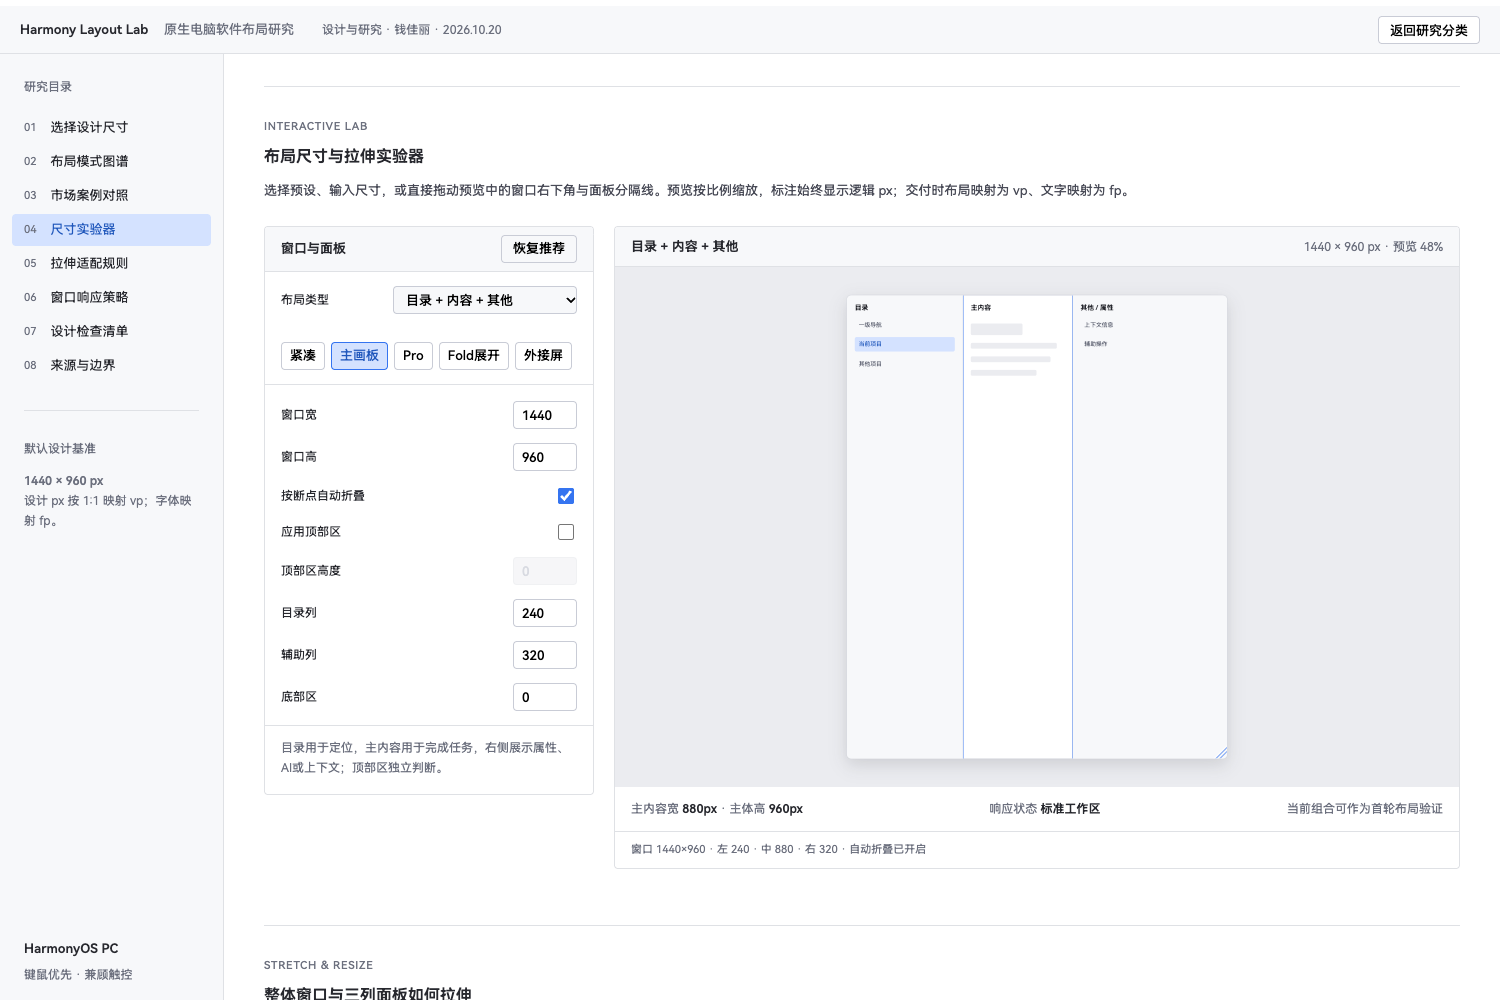
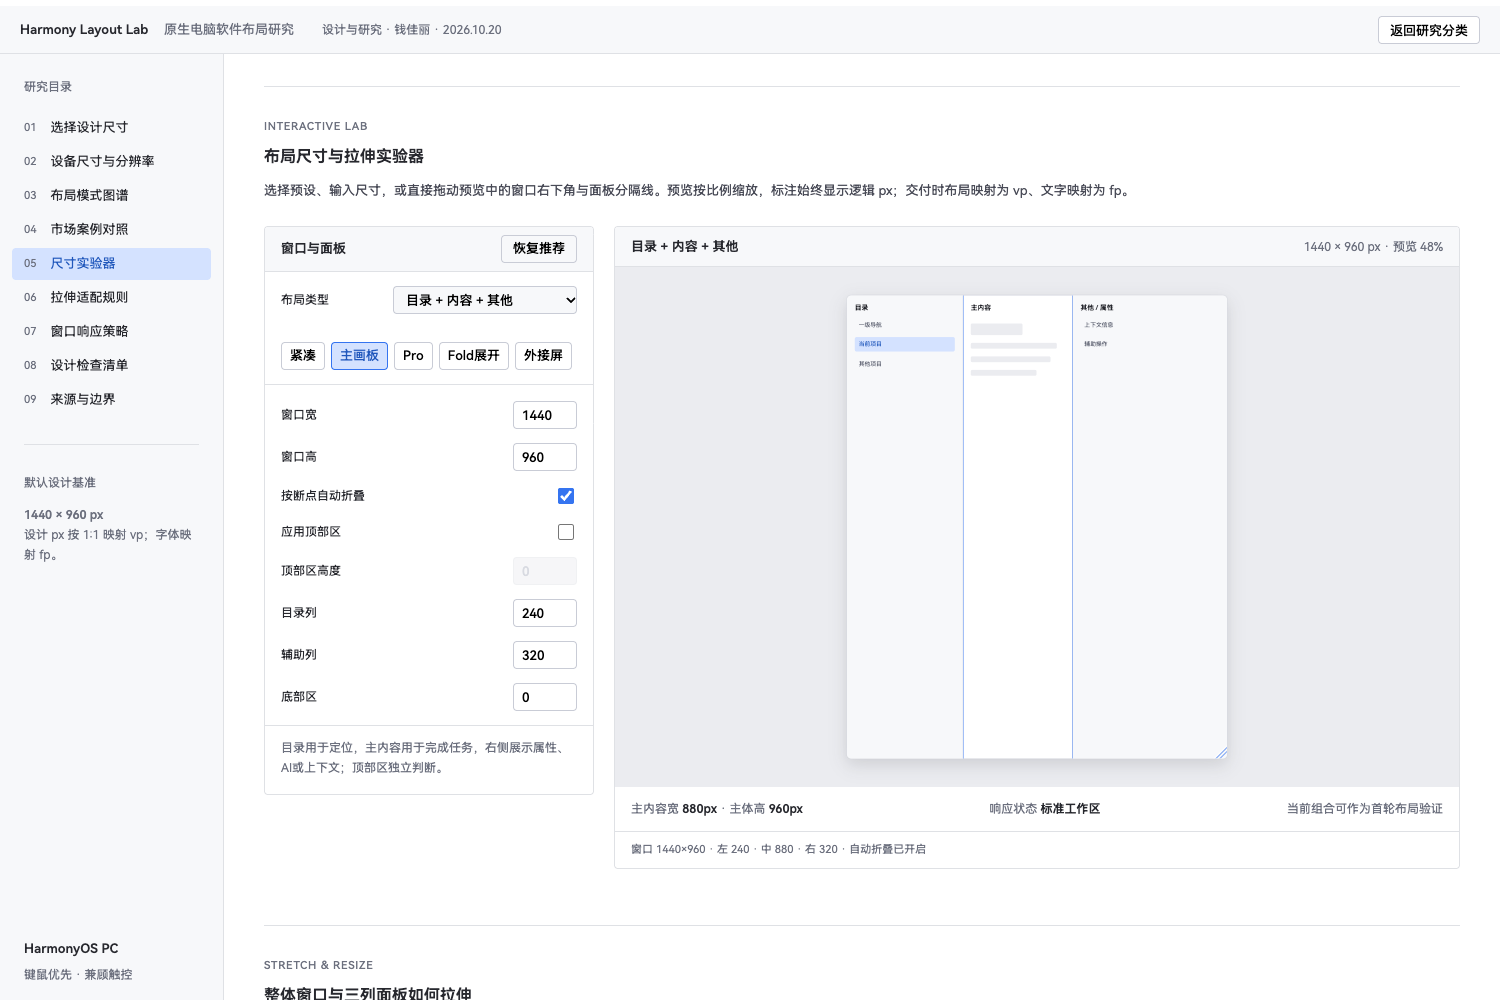
Add HarmonyOS computer resolution analysis

Changed region(s): [[0.0, 0.155, 0.1533, 0.403], [0.0, 0.434, 0.1227, 0.558]]

diff --git a/analysis/harmony-desktop-layouts/index.html b/analysis/harmony-desktop-layouts/index.html
@@ -22,13 +22,14 @@
       <p class="side-heading">研究目录</p>
       <nav>
         <a href="#overview" aria-current="page"><span>01</span>选择设计尺寸</a>
-        <a href="#patterns"><span>02</span>布局模式图谱</a>
-        <a href="#comparison"><span>03</span>市场案例对照</a>
-        <a href="#lab"><span>04</span>尺寸实验器</a>
-        <a href="#stretch"><span>05</span>拉伸适配规则</a>
-        <a href="#responsive"><span>06</span>窗口响应策略</a>
-        <a href="#guidelines"><span>07</span>设计检查清单</a>
-        <a href="#sources"><span>08</span>来源与边界</a>
+        <a href="#resolution"><span>02</span>设备尺寸与分辨率</a>
+        <a href="#patterns"><span>03</span>布局模式图谱</a>
+        <a href="#comparison"><span>04</span>市场案例对照</a>
+        <a href="#lab"><span>05</span>尺寸实验器</a>
+        <a href="#stretch"><span>06</span>拉伸适配规则</a>
+        <a href="#responsive"><span>07</span>窗口响应策略</a>
+        <a href="#guidelines"><span>08</span>设计检查清单</a>
+        <a href="#sources"><span>09</span>来源与边界</a>
       </nav>
       <div class="side-block">
         <p class="side-heading">默认设计基准</p>
@@ -76,6 +77,30 @@
             <p><strong>主内容</strong><span>获得剩余空间，是布局中唯一必须持续伸缩的区域。</span></p>
             <p><strong>辅助列</strong><span>默认 320 vp，可调范围 280–420；窗口变窄时优先折叠。</span></p>
           </div>
+        </div>
+      </section>
+
+      <section id="resolution" class="chapter">
+        <div class="section-intro"><span class="kicker">DEVICE RESOLUTION</span><h2>鸿蒙电脑尺寸与分辨率分析</h2><p>物理分辨率决定屏幕像素密度和资源清晰度，不能直接当作应用设计画板。以下先记录官方设备参数，再用统一的 2× 候选映射换算逻辑设计尺寸。</p></div>
+        <div class="resolution-flow sheet" aria-label="从物理分辨率到应用窗口的换算关系">
+          <div><span>设备物理像素</span><strong>2880 × 1920</strong><small>屏幕硬件规格</small></div><i>÷ 2</i><div><span>候选逻辑画板</span><strong>1440 × 960</strong><small>设计 px → 开发 vp</small></div><i>→</i><div><span>真实应用窗口</span><strong>连续变化</strong><small>全屏 / 分屏 / 自由窗口</small></div>
+        </div>
+        <div class="table-scroll">
+          <table class="research-table resolution-table">
+            <thead><tr><th>设备 / 姿态</th><th>官方屏幕参数</th><th>约算像素密度</th><th>2× 候选逻辑尺寸</th><th>设计验证角色</th></tr></thead>
+            <tbody>
+              <tr><td><strong>MateBook 14</strong><span class="evidence">14.2 英寸 · 3:2</span></td><td>2880 × 1920<a class="source-pill" href="https://consumer.huawei.com/cn/harmonyos-computer/matebook-14-harmonyos-version/" target="_blank" rel="noreferrer">[S12] 官方来源 ↗</a></td><td>约 244 ppi</td><td><strong>1440 × 960</strong></td><td>主设计画板</td></tr>
+              <tr><td><strong>MateBook Pro</strong><span class="evidence">14.2 英寸 · 3:2</span></td><td>3120 × 2080<a class="source-pill" href="https://consumer.huawei.com/cn/harmonyos-computer/matebook-pro/specs/" target="_blank" rel="noreferrer">[S02] 官方来源 ↗</a></td><td>约 264 ppi</td><td><strong>1560 × 1040</strong></td><td>更宽标准窗口</td></tr>
+              <tr><td><strong>MateBook Fold 半屏</strong><span class="evidence">13 英寸 · 3:2</span></td><td>2472 × 1648<a class="source-pill" href="https://consumer.huawei.com/cn/harmonyos-computer/matebook-fold-ultimate-design/specs/" target="_blank" rel="noreferrer">[S03] 官方来源 ↗</a></td><td>约 229 ppi</td><td><strong>1236 × 824</strong></td><td>紧凑压力测试</td></tr>
+              <tr><td><strong>MateBook Fold 展开</strong><span class="evidence">18 英寸 · 4:3</span></td><td>3296 × 2472<a class="source-pill" href="https://consumer.huawei.com/cn/harmonyos-computer/matebook-fold-ultimate-design/specs/" target="_blank" rel="noreferrer">[S03] 官方来源 ↗</a></td><td>约 229 ppi</td><td><strong>1648 × 1236</strong></td><td>大画布与并行面板</td></tr>
+            </tbody>
+          </table>
+        </div>
+        <p class="resolution-caveat"><strong>换算边界：</strong>“÷2”是为了建立一致设计基准的候选映射，不是对 HarmonyOS 默认显示缩放的官方描述。应用窗口还会受系统区域、窗口装饰、分屏比例和用户显示设置影响，因此交付必须继续验证可变窗口。</p>
+        <div class="resolution-findings">
+          <article><span>01</span><h3>3:2 是主基线</h3><p>三款常用姿态都是 3:2，1440×960 适合承担主画板；它代表逻辑工作区，不代表一台设备的全屏截图。</p></article>
+          <article><span>02</span><h3>4:3 用来增加并行信息</h3><p>Fold 展开态多出的高度适合日志、预览和上下文，而不是把原页面整体放大。</p></article>
+          <article><span>03</span><h3>物理像素用于资源质量</h3><p>位图与屏幕适配需要关注 229–264 ppi；布局尺寸、间距和控件仍以逻辑 vp 组织。</p></article>
         </div>
       </section>
 
@@ -177,7 +202,7 @@
         <div class="downloads"><a class="button primary" href="RESEARCH.md" download>下载研究材料</a><a class="button" href="layout-tokens.json" download>下载布局参数</a></div>
       </section>
 
-      <footer class="page-footer"><span>钱佳丽 · Harmony Desktop Layouts</span><span>研究 v1.2 / 2026.10.20</span><a href="../../index.html#analysis">返回研究分类</a></footer>
+      <footer class="page-footer"><span>钱佳丽 · Harmony Desktop Layouts</span><span>研究 v1.3 / 2026.10.20</span><a href="../../index.html#analysis">返回研究分类</a></footer>
     </main>
   </div>
   <script src="data.js"></script>

diff --git a/analysis/harmony-desktop-layouts/data.js b/analysis/harmony-desktop-layouts/data.js
@@ -19,8 +19,8 @@ window.LAYOUT_RESEARCH = {
   ],
   sources: [
     {id:'S01',title:'鸿蒙电脑应用开发入门',org:'华为开发者联盟',note:'确认全屏、分屏、自由多窗、悬浮窗以及响应式布局要求。',url:'https://developer.huawei.com/consumer/cn/multidevice/pc/get-started/'},
-    {id:'S02',title:'HUAWEI MateBook Pro S 规格参数',org:'华为消费者业务',note:'14.2英寸、3120×2080、3:2、264ppi与十点触控。',url:'https://consumer.huawei.com/cn/harmonyos-computer/matebook-pro-s/specs/'},
-    {id:'S03',title:'HUAWEI MateBook Fold 规格参数',org:'华为消费者业务',note:'展开3296×2472 4:3；半屏2472×1648 3:2。',url:'https://consumer.huawei.com/cn/harmonyos-computer/matebook-fold-ultimate-design/specs/'},
+    {id:'S02',title:'HUAWEI MateBook Pro 规格参数',org:'华为消费者业务',note:'14.2英寸、3120×2080、3:2与十点触控；约算264ppi。',url:'https://consumer.huawei.com/cn/harmonyos-computer/matebook-pro/specs/'},
+    {id:'S03',title:'HUAWEI MateBook Fold 规格参数',org:'华为消费者业务',note:'18英寸展开态3296×2472、4:3；13英寸半屏2472×1648、3:2；约算229ppi。',url:'https://consumer.huawei.com/cn/harmonyos-computer/matebook-fold-ultimate-design/specs/'},
     {id:'S04',title:'Visual Studio Code User Interface',org:'Microsoft',note:'官方描述六个工作区及主副侧栏、面板的显示和移动。',url:'https://code.visualstudio.com/docs/editing/getting-started/userinterface'},
     {id:'S05',title:'IntelliJ IDEA Tool Windows',org:'JetBrains',note:'官方描述工具窗停靠、隐藏、重排和分离。',url:'https://www.jetbrains.com/help/idea/tool-windows.html'},
     {id:'S06',title:'Configuring the Xcode project window',org:'Apple',note:'官方定义toolbar、navigator、editor、inspector和debug area。',url:'https://developer.apple.com/documentation/xcode/configuring-the-xcode-project-window'},
@@ -28,7 +28,8 @@ window.LAYOUT_RESEARCH = {
     {id:'S08',title:'NavigationSplitView',org:'Apple Developer',note:'两列或三列选择关系，以及窄尺寸折叠为单栈。',url:'https://developer.apple.com/documentation/swiftui/navigationsplitview'},
     {id:'S09',title:'NavigationView',org:'Microsoft Learn',note:'顶部 / 左侧导航及按窗口宽度切换显示模式。',url:'https://learn.microsoft.com/windows/apps/develop/ui/controls/navigationview'},
     {id:'S10',title:'HarmonyOS 设计资源',org:'华为开发者联盟',note:'提供手机、折叠屏、平板和电脑设计组件与模板。',url:'https://developer.huawei.com/consumer/cn/design/resource/'},
-    {id:'S11',title:'Int UI Kit Community',org:'JetBrains Community',note:'本研究网页按钮、输入、页签和表格的展示组件来源。',url:'https://www.figma.com/design/3q89XhaMGImDOPJwvfEpd7/Int-UI-Kit--Community-'}
+    {id:'S11',title:'Int UI Kit Community',org:'JetBrains Community',note:'本研究网页按钮、输入、页签和表格的展示组件来源。',url:'https://www.figma.com/design/3q89XhaMGImDOPJwvfEpd7/Int-UI-Kit--Community-'},
+    {id:'S12',title:'HUAWEI MateBook 14',org:'华为消费者业务',note:'14.2英寸、2880×1920、3:2；约算244ppi。',url:'https://consumer.huawei.com/cn/harmonyos-computer/matebook-14-harmonyos-version/'}
   ],
   presets: [
     {id:'compact',name:'紧凑',width:1236,height:824},

diff --git a/analysis/harmony-desktop-layouts/styles.css b/analysis/harmony-desktop-layouts/styles.css
@@ -33,3 +33,12 @@
 .adapt-grid .tag{font-size:10px;line-height:16px;color:#2158bc;background:#edf3ff;border-radius:3px;padding:1px 6px}
 @media(max-width:900px){.stretch-demo{grid-template-columns:180px minmax(0,1fr) 220px}}
 @media(max-width:640px){.stretch-demo{grid-template-columns:88px minmax(0,1fr)}.stretch-right{display:none}.stretch-demo>div{padding:14px 8px}.adapt-grid{grid-template-columns:1fr}}
+
+.resolution-flow{display:grid;grid-template-columns:1fr 40px 1fr 40px 1fr;align-items:center;padding:22px;margin-bottom:20px;background:#f7f8fa}
+.resolution-flow>div{min-height:104px;display:flex;flex-direction:column;align-items:center;justify-content:center;text-align:center;background:#fff;border:1px solid var(--layout-line);border-radius:6px;padding:14px}
+.resolution-flow>i{font-style:normal;text-align:center;color:var(--layout-blue);font-size:18px}.resolution-flow span{font-size:11px;color:var(--layout-muted)}.resolution-flow strong{font-size:20px;line-height:30px;font-weight:500;font-variant-numeric:tabular-nums}.resolution-flow small{font-size:10px;color:var(--layout-muted)}
+.resolution-table td:nth-child(1){min-width:190px}.resolution-table td:nth-child(2){min-width:190px}.resolution-table td:nth-child(4){min-width:160px}.resolution-table td:nth-child(5){min-width:180px}
+.resolution-caveat{margin:16px 0 20px;padding:14px 16px;background:#fff8e8;border-left:3px solid #e6a23c;font-size:12px;line-height:20px;color:var(--layout-muted)}.resolution-caveat strong{color:var(--layout-ink)}
+.resolution-findings{display:grid;grid-template-columns:repeat(3,1fr);gap:16px}.resolution-findings article{border-top:3px solid var(--layout-blue);background:#f7f8fa;padding:18px;min-height:150px}.resolution-findings article>span{font-size:11px;color:var(--layout-blue)}.resolution-findings h3{margin:7px 0}.resolution-findings p{font-size:12px;line-height:20px;color:var(--layout-muted)}
+@media(max-width:900px){.resolution-flow{grid-template-columns:1fr 28px 1fr}.resolution-flow>div:last-child{grid-column:1/-1;margin-top:12px}.resolution-flow>i:nth-of-type(2){display:none}.resolution-findings{grid-template-columns:1fr}}
+@media(max-width:640px){.resolution-flow{grid-template-columns:1fr}.resolution-flow>i{transform:rotate(90deg);padding:6px}.resolution-flow>div:last-child{grid-column:auto;margin-top:0}}

diff --git a/site/catalog.js b/site/catalog.js
@@ -365,7 +365,7 @@ window.DEVECO_CATALOG = {
         {
           title: '鸿蒙电脑原生应用布局研究：窗口结构与多列工作区',
           author: '钱佳丽', subtitle: 'Desktop Layout Atlas · Responsive Window Lab',
-          desc: '钱佳丽：整理8类主流桌面布局，把内容列结构与应用顶部区拆成独立维度；以1440×960为主画板，可拖动整体窗口与左右面板，并模拟断点折叠和宽度恢复。',
+          desc: '钱佳丽：分析MateBook 14、MateBook Pro和MateBook Fold的屏幕尺寸、物理分辨率与候选逻辑画板；整理8类布局，可拖动整体窗口与左右面板并模拟断点折叠。',
           view: 'ready', date: '2026-10-20', href: 'analysis/harmony-desktop-layouts/index.html',
           links: [
             { label: '布局图谱', href: 'analysis/harmony-desktop-layouts/index.html#patterns' },

diff --git a/index.html b/index.html
@@ -66,7 +66,7 @@
   </footer>
 </div>
 
-<script src="site/catalog.js?v=20261020-layout-v3"></script>
+<script src="site/catalog.js?v=20261020-layout-v4"></script>
 <script src="site/launcher.js?v=20261015-tree"></script>
 </body>
 </html>

diff --git a/analysis/harmony-desktop-layouts/RESEARCH.md b/analysis/harmony-desktop-layouts/RESEARCH.md
@@ -1,7 +1,7 @@
 # 鸿蒙电脑原生应用布局研究
 
 研究与方案设计：钱佳丽  
-版本：1.2 · 2026-10-20
+版本：1.3 · 2026-10-20
 
 ## 结论
 
@@ -20,6 +20,19 @@
 | 外接屏 | 1920×1080 | 外接显示器和横向扩展验证 |
 
 这些是设计验证画板，不代表系统固定或默认缩放值。
+
+## 鸿蒙电脑屏幕尺寸与分辨率
+
+| 设备 / 姿态 | 官方屏幕参数 | 约算像素密度 | 2×候选逻辑尺寸 | 设计角色 |
+|---|---|---:|---:|---|
+| HUAWEI MateBook 14 | 14.2英寸、2880×1920、3:2 | 约244ppi | 1440×960 | 主设计画板 |
+| HUAWEI MateBook Pro | 14.2英寸、3120×2080、3:2 | 约264ppi | 1560×1040 | 更宽标准窗口 |
+| HUAWEI MateBook Fold 半屏 | 13英寸、2472×1648、3:2 | 约229ppi | 1236×824 | 紧凑压力测试 |
+| HUAWEI MateBook Fold 展开 | 18英寸、3296×2472、4:3 | 约229ppi | 1648×1236 | 大画布与并行面板 |
+
+像素密度由官方尺寸与分辨率约算。2×候选逻辑尺寸用于建立一致的设计映射，不表示 HarmonyOS 官方默认显示缩放。应用实际可用区域还会受系统区域、窗口装饰、分屏比例、自由窗口尺寸和用户显示设置影响。
+
+从这组设备可以得出三点：3:2适合作为主基线；Fold展开的4:3应增加并行信息或纵向工具区，而不是等比放大页面；物理分辨率主要用于判断资源清晰度，布局仍应以逻辑vp和可变窗口组织。
 
 ## 推荐区域尺寸
 
@@ -92,7 +105,7 @@
 ## 来源
 
 1. 华为开发者联盟：[鸿蒙电脑应用开发入门](https://developer.huawei.com/consumer/cn/multidevice/pc/get-started/)
-2. 华为消费者业务：[MateBook Pro S 规格](https://consumer.huawei.com/cn/harmonyos-computer/matebook-pro-s/specs/)
+2. 华为消费者业务：[MateBook Pro 规格](https://consumer.huawei.com/cn/harmonyos-computer/matebook-pro/specs/)
 3. 华为消费者业务：[MateBook Fold 规格](https://consumer.huawei.com/cn/harmonyos-computer/matebook-fold-ultimate-design/specs/)
 4. Microsoft：[Visual Studio Code User Interface](https://code.visualstudio.com/docs/editing/getting-started/userinterface)
 5. JetBrains：[IntelliJ IDEA Tool Windows](https://www.jetbrains.com/help/idea/tool-windows.html)
@@ -102,6 +115,7 @@
 9. Microsoft Learn：[NavigationView](https://learn.microsoft.com/windows/apps/develop/ui/controls/navigationview)
 10. Huawei：[HarmonyOS 设计资源](https://developer.huawei.com/consumer/cn/design/resource/)
 11. JetBrains Community：[Int UI Kit Community](https://www.figma.com/design/3q89XhaMGImDOPJwvfEpd7/Int-UI-Kit--Community-)
+12. 华为消费者业务：[HUAWEI MateBook 14](https://consumer.huawei.com/cn/harmonyos-computer/matebook-14-harmonyos-version/)
 
 ## 边界
 

diff --git a/analysis/harmony-desktop-layouts/VALIDATION.md b/analysis/harmony-desktop-layouts/VALIDATION.md
@@ -2,7 +2,7 @@
 
 日期：2026-10-20。环境：本机 Chrome / Playwright。
 
-- 页面展示8类布局模式、6个市场产品结构对照和11项来源。
+- 页面展示4种鸿蒙电脑设备/姿态的分辨率分析、8类布局模式、6个市场产品结构对照和12项来源。
 - 默认三列布局为1440×960，应用顶部区关闭，目录240、辅助列320，计算出的主内容宽为880、主体高为960。
 - 紧凑预设1236×824时自动折叠右侧辅助区，主内容宽996；手动展开右侧并增至420后能提示主内容低于640。
 - 应用顶部区可独立开启或关闭：开启后默认48，关闭后高度为0；切换布局会采用对应模式的建议状态。
@@ -10,9 +10,10 @@
 - 自定义窗口宽高、顶部区、目录列、辅助列和底部区均可即时更新预览与判断。
 - 预览中的左、右、底部分隔线及窗口右下角均可拖动；左、右面板拖动受主内容最小640约束。
 - “按断点自动折叠”开启时，右侧在1280以下折叠、左侧在960以下折叠，并在窗口恢复后使用之前宽度。
-- 390×844视口下，八个章节均未出现整页横向溢出；宽表使用局部滚动。
+- 分辨率表中的物理像素、屏幕尺寸和比例与华为官方页面一致；PPI及2×逻辑尺寸明确标记为研究换算。
+- 390×844视口下，九个章节均未出现整页横向溢出；宽表使用局部滚动。
 - 启动页“分析与研究”出现新研究卡片；作者字段为钱佳丽。
 - 页面未捕获JavaScript异常或HTTP资源错误；脚本语法和git diff空白检查通过。
-- `assets/layout-preview.png` 从最终交互页面导出并人工查看。
+- `assets/layout-preview.png` 与 `assets/resolution-preview.png` 从最终页面导出并人工查看。
 
 验证只说明研究网页实现符合当前说明，不证明推荐尺寸已经通过鸿蒙真机或用户任务测试。市场布局图为结构归纳，不是竞品像素测量。

diff --git a/README.md b/README.md
@@ -11,7 +11,7 @@
 
 ## 新增研究 · 钱佳丽
 
-[鸿蒙电脑原生应用布局研究](analysis/harmony-desktop-layouts/index.html)整理了顶部导航、左侧导航、列表详情、三列工作区、IDE、画布、看板和设置等 8 类主流桌面布局，并将“内容列结构”与“是否需要应用顶部区”作为独立维度；以 1440×960 为主画板，提供可拖动整体窗口与左右面板、模拟断点折叠的[布局实验器](analysis/harmony-desktop-layouts/index.html#lab)及[完整研究材料](analysis/harmony-desktop-layouts/RESEARCH.md)。
+[鸿蒙电脑原生应用布局研究](analysis/harmony-desktop-layouts/index.html)分析 MateBook 14、MateBook Pro 与 MateBook Fold 的屏幕尺寸、物理分辨率和候选逻辑画板，整理 8 类主流桌面布局，并将“内容列结构”与“是否需要应用顶部区”作为独立维度；提供可拖动整体窗口与左右面板、模拟断点折叠的[布局实验器](analysis/harmony-desktop-layouts/index.html#lab)及[完整研究材料](analysis/harmony-desktop-layouts/RESEARCH.md)。
 
 [IDE 文件树体验研究](analysis/ide-tree-lab/index.html)已收录在启动页「分析与研究」。包含竞品对照、20 / 20 / 16 参数方案、4px 图文间距、IDE 交互效果及截图；[研究材料](analysis/ide-tree-lab/RESEARCH.md)署名钱佳丽。原仓库其他材料保留原作者归属，原启动页见 [Cinnnnnnndy / DevEco](https://cinnnnnnndy.github.io/DevEco/)。
 

diff --git a/analysis/harmony-desktop-layouts/README.md b/analysis/harmony-desktop-layouts/README.md
@@ -1,13 +1,14 @@
 # 鸿蒙电脑原生应用布局研究
 
-钱佳丽 · 2026-10-20 · v1.2
+钱佳丽 · 2026-10-20 · v1.3
 
-面向鸿蒙电脑原生软件，整理顶部导航、左右导航、两列、三列、IDE 工作台、画布、卡片看板和设置页面等主流桌面布局。内容列结构与应用顶部区是两个独立维度，不默认给每种布局增加顶部栏。默认设计画板为 1440×960 px；网页支持拖动整体窗口和左、中、右面板，并按断点模拟折叠与恢复。
+面向鸿蒙电脑原生软件，整理设备分辨率、逻辑画板、顶部导航、左右导航、两列、三列、IDE 工作台、画布、卡片看板和设置页面。内容列结构与应用顶部区是两个独立维度，不默认给每种布局增加顶部栏。默认设计画板为 1440×960 px；网页支持拖动整体窗口和左、中、右面板，并按断点模拟折叠与恢复。
 
 - [交互研究页面](index.html)
 - [完整研究材料](RESEARCH.md)
 - [布局候选参数](layout-tokens.json)
 - [预览图](assets/layout-preview.png)
+- [分辨率分析预览](assets/resolution-preview.png)
 
 设计文件中的 px 作为逻辑设计单位：布局、间距和圆角按 1px=1vp 交付，文字按 1px=1fp 交付。市场产品示意是依据官方文档做的结构归纳，不是竞品截图或像素测量。
 
